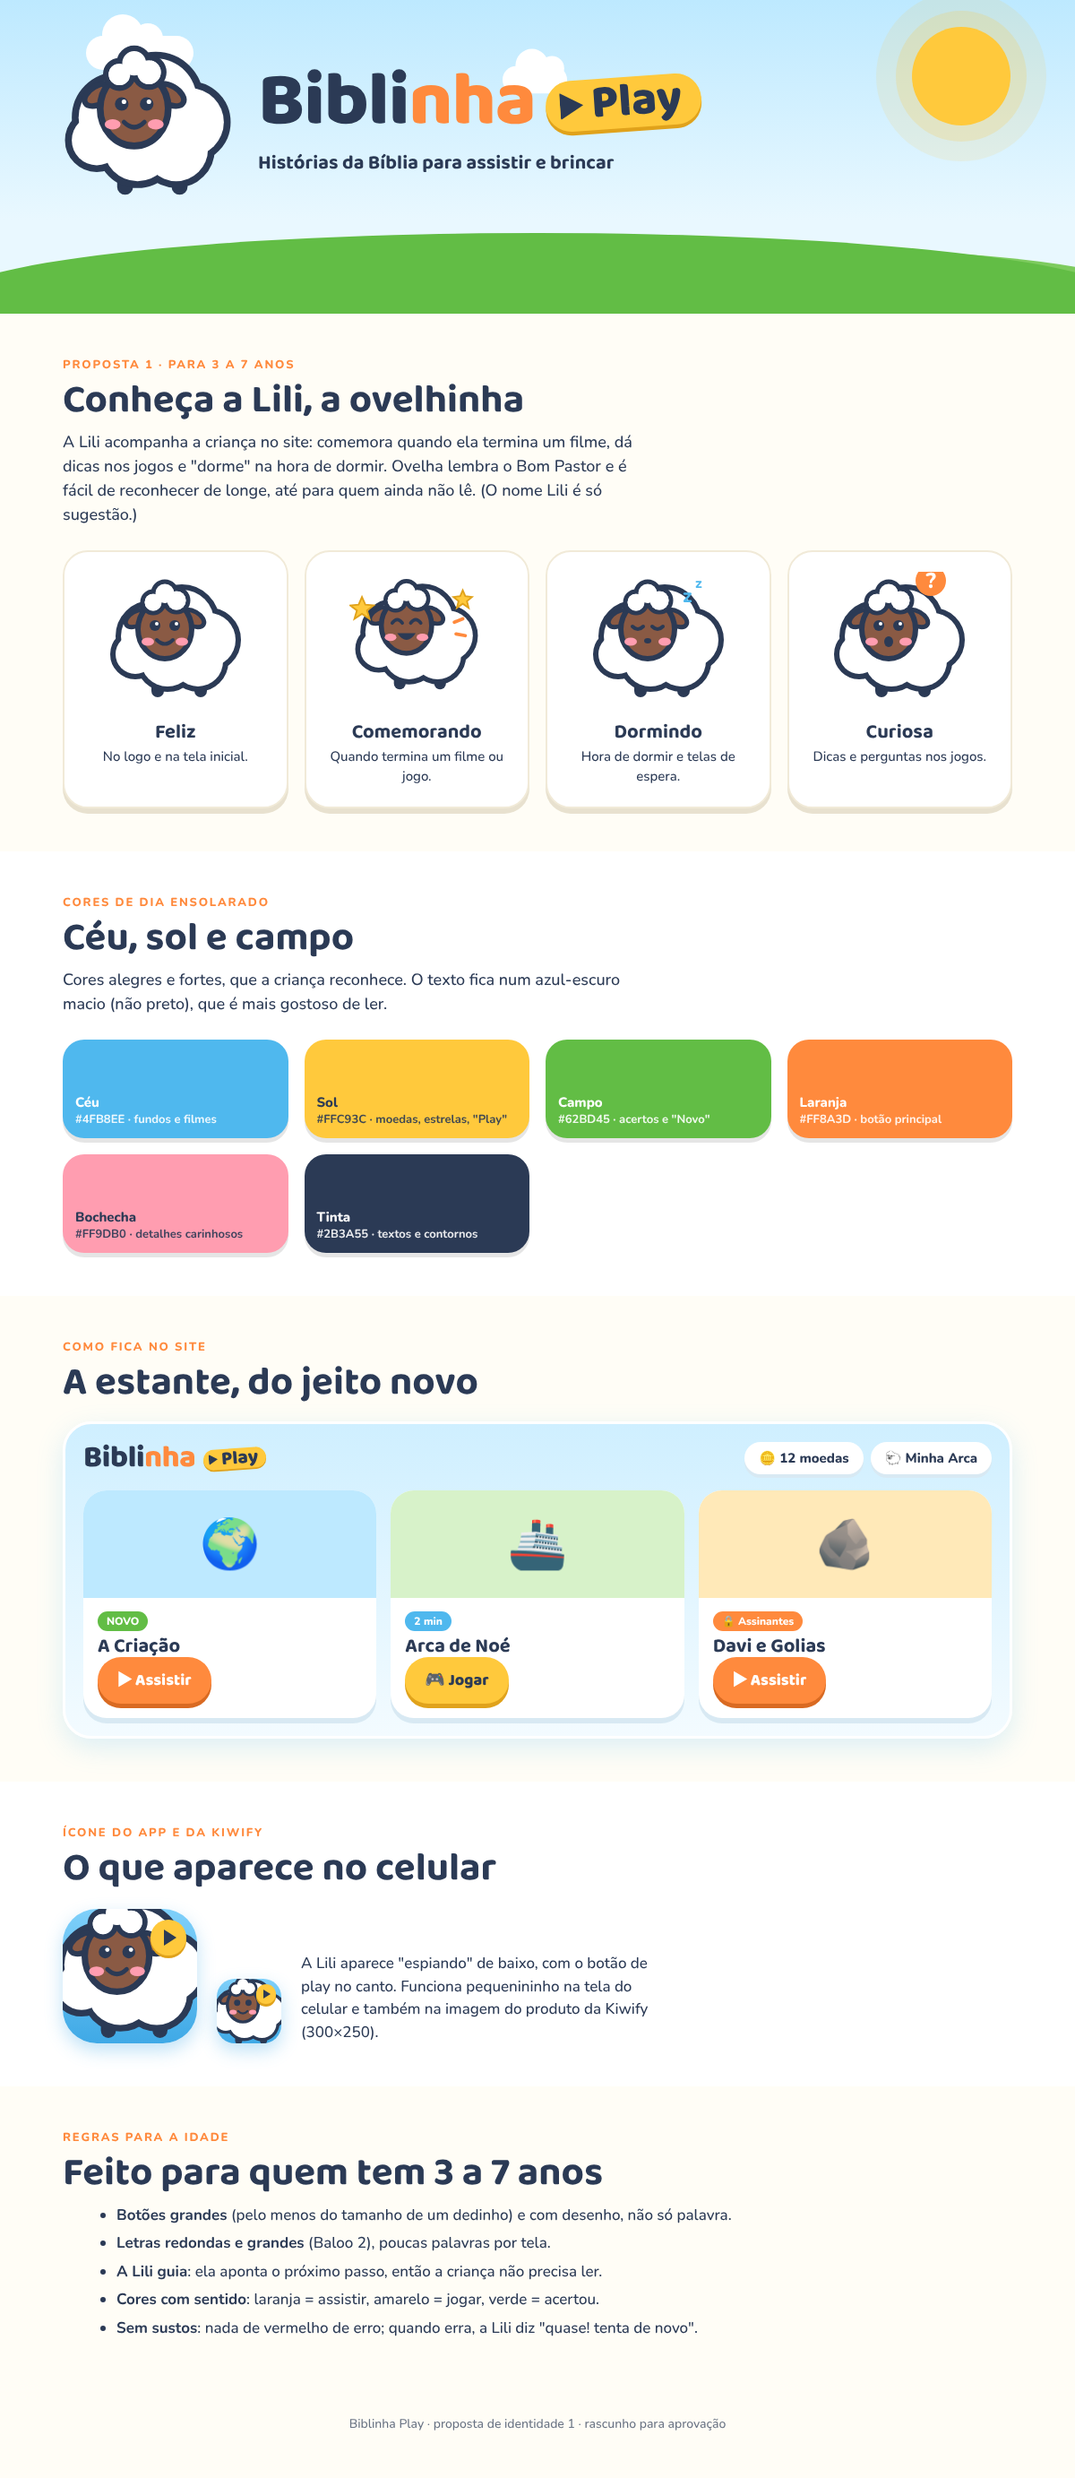
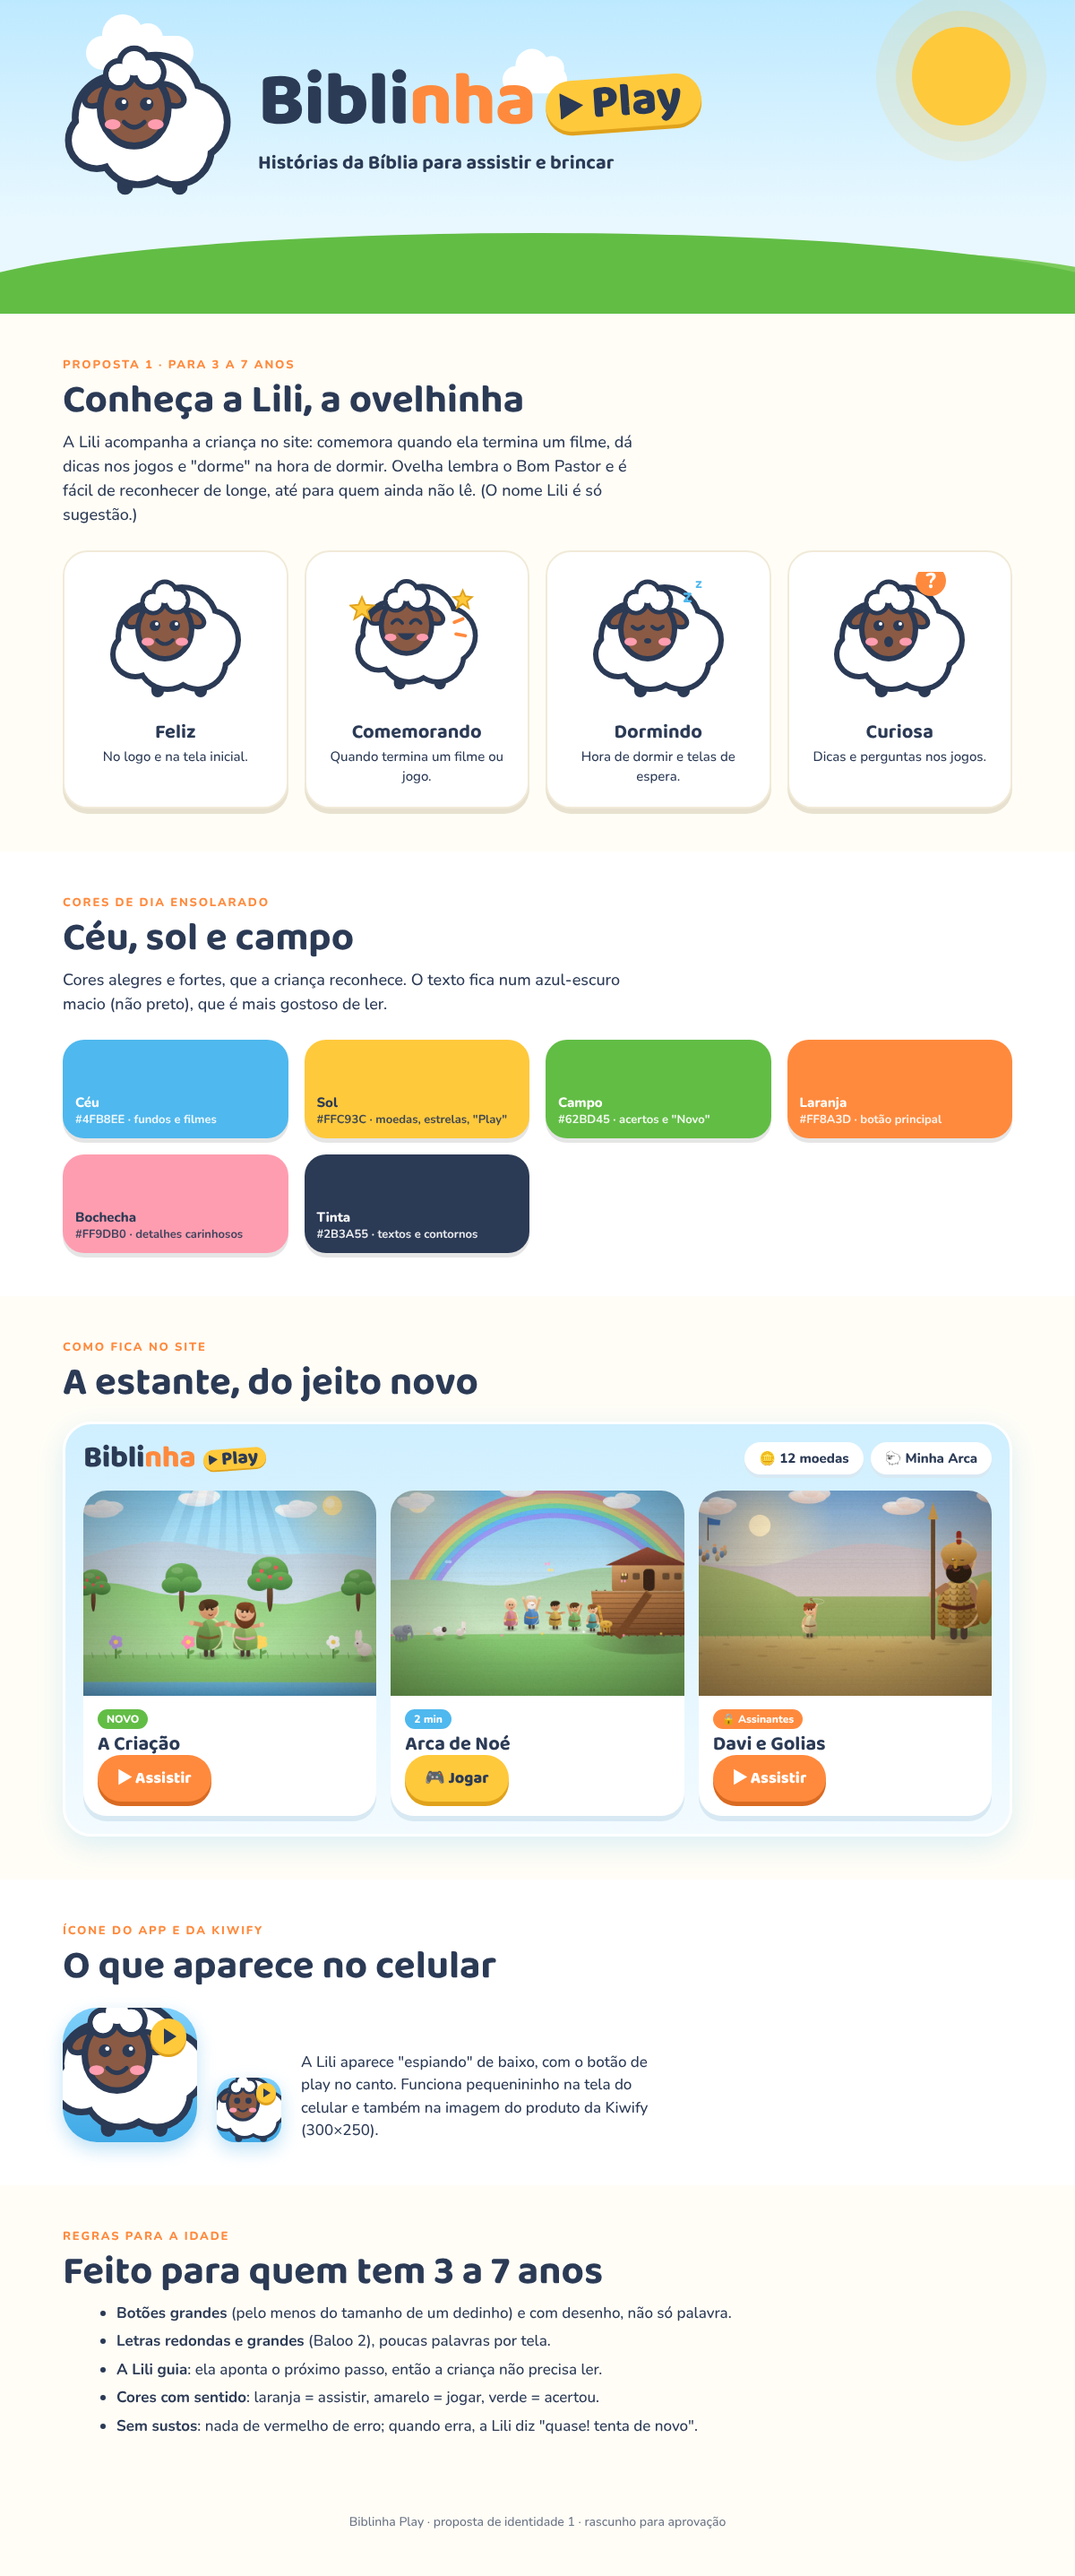
Identidade Biblinha Play: proposta 2 (estilo livro de histórias) e comparação
Claude-Session: https://claude.ai/code/session_01JxGye28bFzUYJqfGC51MLp

diff --git a/prototipos/identidade/biblinha-proposta-2.html b/prototipos/identidade/biblinha-proposta-2.html
@@ -1,0 +1,177 @@
+<!doctype html>
+<html lang="pt-BR">
+<head>
+<meta charset="utf-8">
+<meta name="viewport" content="width=device-width,initial-scale=1">
+<title>Biblinha Play – proposta 2</title>
+<link rel="preconnect" href="https://fonts.googleapis.com">
+<link href="https://fonts.googleapis.com/css2?family=Fredoka:wght@500;600;700&family=Nunito:wght@500;700;800&display=swap" rel="stylesheet">
+<style>
+:root{
+  --manha:#8FD3F4; --pessego:#FFB38A; --menta:#8FD8A8; --lavanda:#B9A6F0; --mel:#F6C453;
+  --tinta:#3B3355; --papel:#FFF8EE; --cartao:#FFFFFF;
+}
+*{box-sizing:border-box;margin:0}
+body{background:var(--papel);color:var(--tinta);font:500 17px/1.55 Nunito,system-ui,sans-serif}
+h1,h2,h3{font-family:Fredoka,Nunito,sans-serif;font-weight:600;line-height:1.1}
+.wrap{max-width:1100px;margin:auto;padding:0 20px}
+section{padding:48px 0}
+.rot{font:800 13px Nunito;letter-spacing:.14em;text-transform:uppercase;color:#C47B55;margin-bottom:8px}
+h2{font-size:clamp(30px,5vw,42px);margin-bottom:10px}
+p.lead{max-width:640px;font-size:18px}
+
+/* logo */
+.logo{display:inline-flex;align-items:center;gap:.25em;font-family:Fredoka;font-weight:700;font-size:var(--t,60px);line-height:1}
+.logo .arco{width:1.7em;height:1.7em;flex:none}
+.logo .txt{display:flex;flex-direction:column;line-height:.9}
+.logo .b{color:var(--tinta);letter-spacing:-.01em}
+.logo .p{font-size:.56em;letter-spacing:.06em;background:linear-gradient(90deg,#FF8E7A,#F6B54B 30%,#62C38A 55%,#5FB2E6 75%,#9A84E8);-webkit-background-clip:text;background-clip:text;color:transparent;padding-left:.06em}
+.logo.claro .b{color:#fff}
+
+/* topo com a arte do jogo */
+.hero{position:relative;min-height:440px;display:flex;align-items:flex-end;overflow:hidden;background:#cfe9f7}
+.hero img{position:absolute;inset:0;width:100%;height:100%;object-fit:cover}
+.hero::after{content:"";position:absolute;inset:0;background:linear-gradient(180deg,#fff8ee00 35%,#fff8eeee 92%)}
+.hero .wrap{position:relative;z-index:2;width:100%;padding-bottom:28px;display:flex;align-items:flex-end;gap:18px;flex-wrap:wrap}
+.hero .tag{font:600 22px Fredoka;margin-top:8px}
+.btn{display:inline-flex;align-items:center;gap:8px;border:0;border-radius:999px;padding:12px 24px;font:600 19px Fredoka;cursor:pointer}
+.btn.play{background:linear-gradient(#FFC09C,#FF9A6B);color:#fff;box-shadow:0 6px 16px #FF9A6B66;text-shadow:0 1px 0 #d9733f}
+.btn.alt{background:#fff;color:var(--tinta);box-shadow:0 6px 16px #3B335522}
+
+.grid{display:grid;gap:18px;grid-template-columns:repeat(auto-fit,minmax(220px,1fr));margin-top:26px}
+.card{background:var(--cartao);border-radius:30px;padding:22px;box-shadow:0 10px 30px #3B335514;text-align:center}
+.card h3{font-size:22px;margin:8px 0 4px}.card p{font-size:15px}
+.pose svg{width:170px;height:170px}
+
+.cores .sw{border-radius:26px;height:110px;display:flex;align-items:flex-end;padding:12px 14px;font:800 15px Nunito;color:var(--tinta);box-shadow:0 8px 20px #3B335512}
+.cores .sw span{display:block;font-weight:600;font-size:13px;opacity:.85}
+
+.estante{display:grid;grid-template-columns:repeat(auto-fit,minmax(230px,1fr));gap:18px;margin-top:22px}
+.filme{background:#fff;border-radius:28px;overflow:hidden;box-shadow:0 10px 28px #3B335518}
+.filme img{display:block;width:100%;aspect-ratio:10/7;object-fit:cover}
+.filme .info{padding:12px 16px 16px;display:flex;justify-content:space-between;align-items:center;gap:8px}
+.filme h3{font-size:21px}
+.filme small{display:block;font-size:13px;opacity:.7}
+.mini{width:46px;height:46px;border-radius:50%;border:0;background:linear-gradient(#FFC09C,#FF9A6B);display:flex;align-items:center;justify-content:center;box-shadow:0 4px 12px #FF9A6B66;flex:none}
+.mini i{border-left:14px solid #fff;border-top:9px solid transparent;border-bottom:9px solid transparent;margin-left:4px}
+.selo{position:absolute;left:12px;top:12px;background:#fffffff0;border-radius:999px;padding:4px 12px;font:800 12px Nunito}
+.filme .capa{position:relative}
+
+.icones{display:flex;gap:22px;flex-wrap:wrap;align-items:center;margin-top:22px}
+.icone{width:150px;height:150px;border-radius:40px;background:radial-gradient(circle at 50% 120%,#FFE9C9,#BFE6F8 70%);position:relative;overflow:hidden;box-shadow:0 10px 24px #5FB2E655}
+.icone svg{position:absolute;inset:0;width:100%;height:100%}
+.peq{width:72px;height:72px;border-radius:20px}
+.regras li{margin:6px 0 6px 20px}
+footer{padding:30px 0 50px;text-align:center;font-size:14px;opacity:.7}
+</style>
+</head>
+<body>
+
+<svg width="0" height="0" style="position:absolute">
+  <defs>
+    <radialGradient id="gLa" cx="40%" cy="30%" r="75%"><stop offset="0" stop-color="#FFFFFF"/><stop offset=".7" stop-color="#FBF3E6"/><stop offset="1" stop-color="#E9DCC8"/></radialGradient>
+    <radialGradient id="gRosto" cx="45%" cy="35%" r="70%"><stop offset="0" stop-color="#F7DCC6"/><stop offset="1" stop-color="#DDB08F"/></radialGradient>
+    <linearGradient id="gArco" x1="0" x2="1"><stop offset="0" stop-color="#FF8E7A"/><stop offset=".3" stop-color="#F6B54B"/><stop offset=".55" stop-color="#62C38A"/><stop offset=".78" stop-color="#5FB2E6"/><stop offset="1" stop-color="#9A84E8"/></linearGradient>
+    <filter id="sombra" x="-20%" y="-20%" width="140%" height="150%"><feDropShadow dx="0" dy="4" stdDeviation="4" flood-color="#3B3355" flood-opacity=".18"/></filter>
+    <g id="ov">
+      <ellipse cx="100" cy="178" rx="52" ry="7" fill="#3B3355" opacity=".12"/>
+      <rect x="76" y="140" width="13" height="36" rx="6.5" fill="#6B5A57"/>
+      <rect x="114" y="140" width="13" height="36" rx="6.5" fill="#6B5A57"/>
+      <g fill="url(#gLa)" filter="url(#sombra)" >
+        <circle cx="72" cy="112" r="30"/><circle cx="104" cy="98" r="34"/><circle cx="136" cy="112" r="30"/>
+        <circle cx="88" cy="136" r="28"/><circle cx="122" cy="136" r="28"/><circle cx="104" cy="122" r="34"/>
+      </g>
+      <ellipse cx="66" cy="96" rx="15" ry="8" transform="rotate(-25 66 96)" fill="#E2B897"/>
+      <ellipse cx="128" cy="96" rx="15" ry="8" transform="rotate(25 128 96)" fill="#E2B897"/>
+      <ellipse cx="97" cy="106" rx="29" ry="31" fill="url(#gRosto)"/>
+      <g fill="#fff"><circle cx="84" cy="78" r="11"/><circle cx="97" cy="71" r="12"/><circle cx="110" cy="78" r="11"/></g>
+      <ellipse cx="80" cy="117" rx="6" ry="3.6" fill="#F59C9C" opacity=".7"/><ellipse cx="114" cy="117" rx="6" ry="3.6" fill="#F59C9C" opacity=".7"/>
+    </g>
+    <g id="olhos"><circle cx="87" cy="103" r="4.2" fill="#3B3355"/><circle cx="107" cy="103" r="4.2" fill="#3B3355"/><circle cx="88.3" cy="101.7" r="1.4" fill="#fff"/><circle cx="108.3" cy="101.7" r="1.4" fill="#fff"/></g>
+    <path id="sorriso" d="M90 116 q7 6 14 0" fill="none" stroke="#3B3355" stroke-width="3" stroke-linecap="round"/>
+  </defs>
+</svg>
+
+<header class="hero">
+  <img src="../../filmes/capa-noe.jpg" alt="Cena do filme Arca de Noé">
+  <div class="wrap">
+    <div style="background:#fff8eee6;border-radius:30px;padding:14px 22px 16px;box-shadow:0 10px 30px #3B335522">
+      <div class="logo" style="--t:clamp(44px,8vw,76px)">
+        <svg class="arco" viewBox="0 0 100 100"><path d="M8 74 a42 42 0 0 1 84 0" fill="none" stroke="url(#gArco)" stroke-width="10" stroke-linecap="round"/><g transform="translate(-14 -2) scale(.6)"><use href="#ov"/><use href="#olhos"/><use href="#sorriso"/></g></svg>
+        <span class="txt"><span class="b">Biblinha</span><span class="p">PLAY</span></span>
+      </div>
+      <div class="tag">Histórias da Bíblia para assistir e brincar</div>
+    </div>
+    <div style="margin-left:auto;display:flex;gap:10px;flex-wrap:wrap"><button class="btn play">▶ Assistir</button><button class="btn alt">🎮 Jogar</button></div>
+  </div>
+</header>
+
+<section><div class="wrap">
+  <div class="rot">Proposta 2 · estilo livro de histórias</div>
+  <h2>A Lili, desenhada como nos filmes</h2>
+  <p class="lead">Aqui a ovelhinha segue o mesmo jeito dos desenhos que já temos: sem contorno preto, luz suave e cores de aquarela. Assim ela parece ter saído de dentro dos filmes.</p>
+  <div class="grid">
+    <div class="card pose"><svg viewBox="34 52 136 132"><use href="#ov"/><use href="#olhos"/><use href="#sorriso"/></svg><h3>Feliz</h3><p>No logo e na tela inicial.</p></div>
+    <div class="card pose"><svg viewBox="30 38 145 146"><g transform="translate(0,-8)"><use href="#ov"/>
+      <path d="M82 104 q5 -6 10 0 M102 104 q5 -6 10 0" fill="none" stroke="#3B3355" stroke-width="3" stroke-linecap="round"/><path d="M89 114 q8 12 16 0 z" fill="#3B3355"/></g>
+      <path d="M150 70 a40 40 0 0 0 -80 -12" fill="none" stroke="url(#gArco)" stroke-width="6" stroke-linecap="round" opacity=".9"/>
+      <g fill="#F6C453"><circle cx="48" cy="70" r="5"/><circle cx="160" cy="92" r="4"/><circle cx="58" cy="52" r="3"/></g></svg><h3>Comemorando</h3><p>Quando termina um filme ou jogo.</p></div>
+    <div class="card pose"><svg viewBox="34 52 136 132"><use href="#ov"/>
+      <path d="M82 104 q5 4 10 0 M102 104 q5 4 10 0" fill="none" stroke="#3B3355" stroke-width="3" stroke-linecap="round"/>
+      <path d="M150 62 a14 14 0 1 0 12 20 a11 11 0 1 1 -12 -20z" fill="#F6C453"/></svg><h3>Dormindo</h3><p>Hora de dormir e telas de espera.</p></div>
+    <div class="card pose"><svg viewBox="34 52 136 132"><use href="#ov"/><use href="#olhos"/><ellipse cx="97" cy="116" rx="4" ry="5" fill="#3B3355"/>
+      <g transform="translate(150 70)"><circle r="16" fill="#B9A6F0"/><text y="7" text-anchor="middle" font-family="Fredoka" font-weight="700" font-size="22" fill="#fff">?</text></g></svg><h3>Curiosa</h3><p>Dicas e perguntas nos jogos.</p></div>
+  </div>
+</div></section>
+
+<section style="background:#fff"><div class="wrap">
+  <div class="rot">Cores de arco-íris suave</div>
+  <h2>As cores da aliança</h2>
+  <p class="lead">Tons de aquarela que combinam com as capas dos filmes. O arco-íris lembra a promessa de Deus a Noé e aparece no logo.</p>
+  <div class="grid cores">
+    <div class="sw" style="background:var(--manha)"><div>Manhã<span>#8FD3F4 · céu e fundos</span></div></div>
+    <div class="sw" style="background:var(--pessego)"><div>Pêssego<span>#FFB38A · botão assistir</span></div></div>
+    <div class="sw" style="background:var(--menta)"><div>Menta<span>#8FD8A8 · acertos e "Novo"</span></div></div>
+    <div class="sw" style="background:var(--mel)"><div>Mel<span>#F6C453 · moedas e estrelas</span></div></div>
+    <div class="sw" style="background:var(--lavanda)"><div>Lavanda<span>#B9A6F0 · dicas e área dos pais</span></div></div>
+    <div class="sw" style="background:var(--tinta);color:#fff"><div>Tinta<span>#3B3355 · textos</span></div></div>
+  </div>
+</div></section>
+
+<section><div class="wrap">
+  <div class="rot">Como fica no site · com os desenhos de verdade</div>
+  <h2>A estante</h2>
+  <div class="estante">
+    <div class="filme"><div class="capa"><img src="../../filmes/capa-criacao.jpg" alt=""><span class="selo">✨ Novo</span></div><div class="info"><div><h3>A Criação</h3><small>2 min · com jogo</small></div><button class="mini" aria-label="Assistir"><i></i></button></div></div>
+    <div class="filme"><div class="capa"><img src="../../filmes/capa-noe.jpg" alt=""><span class="selo">🌈 Favorito</span></div><div class="info"><div><h3>Arca de Noé</h3><small>2 min · com jogo</small></div><button class="mini" aria-label="Assistir"><i></i></button></div></div>
+    <div class="filme"><div class="capa"><img src="../../filmes/capa-davi.jpg" alt=""><span class="selo">🔒 Assinantes</span></div><div class="info"><div><h3>Davi e Golias</h3><small>3 min · com jogo</small></div><button class="mini" aria-label="Assistir"><i></i></button></div></div>
+    <div class="filme"><div class="capa"><img src="../../filmes/capa-jonas.jpg" alt=""><span class="selo">🔒 Assinantes</span></div><div class="info"><div><h3>Jonas</h3><small>3 min · com jogo</small></div><button class="mini" aria-label="Assistir"><i></i></button></div></div>
+    <div class="filme"><div class="capa"><img src="../../filmes/capa-natal.jpg" alt=""><span class="selo">🔒 Assinantes</span></div><div class="info"><div><h3>O Natal</h3><small>3 min · com jogo</small></div><button class="mini" aria-label="Assistir"><i></i></button></div></div>
+    <div class="filme"><div class="capa"><img src="../../filmes/capa-tempestade.jpg" alt=""><span class="selo">🔒 Assinantes</span></div><div class="info"><div><h3>A Tempestade</h3><small>3 min · com jogo</small></div><button class="mini" aria-label="Assistir"><i></i></button></div></div>
+  </div>
+</div></section>
+
+<section style="background:#fff"><div class="wrap">
+  <div class="rot">Ícone do app e da Kiwify</div>
+  <h2>O que aparece no celular</h2>
+  <div class="icones">
+    <div class="icone"><svg viewBox="0 0 150 150"><path d="M22 112 a53 53 0 0 1 106 0" fill="none" stroke="url(#gArco)" stroke-width="14" stroke-linecap="round"/><g transform="translate(-14 2) scale(.86)"><use href="#ov"/><use href="#olhos"/><use href="#sorriso"/></g></svg></div>
+    <div class="icone peq"><svg viewBox="0 0 150 150"><path d="M22 112 a53 53 0 0 1 106 0" fill="none" stroke="url(#gArco)" stroke-width="14" stroke-linecap="round"/><g transform="translate(-14 2) scale(.86)"><use href="#ov"/><use href="#olhos"/><use href="#sorriso"/></g></svg></div>
+    <div style="max-width:420px"><p>A Lili debaixo do arco-íris. Fica delicado e se destaca na tela do celular, ao lado dos outros apps.</p></div>
+  </div>
+</div></section>
+
+<section><div class="wrap regras">
+  <div class="rot">Regras para a idade</div>
+  <h2>Feito para quem tem 3 a 7 anos</h2>
+  <ul>
+    <li><b>Os desenhos mandam</b>: as capas dos filmes são grandes e a criança escolhe pela imagem.</li>
+    <li><b>Letras redondas</b> (Fredoka) e poucas palavras.</li>
+    <li><b>Um só botão por filme</b> (o círculo de play), fácil de acertar com o dedo.</li>
+    <li><b>Clima calmo</b>: cores suaves, sem piscar, bom também para a hora de dormir.</li>
+  </ul>
+</div></section>
+
+<footer>Biblinha Play · proposta de identidade 2 · rascunho para aprovação</footer>
+</body>
+</html>

diff --git a/prototipos/identidade/biblinha-proposta-1.html b/prototipos/identidade/biblinha-proposta-1.html
@@ -57,7 +57,7 @@ p.lead{max-width:640px;font-size:18px}
 .chip{background:#fff;border-radius:999px;padding:8px 16px;font:800 15px Nunito;box-shadow:0 4px 0 #D8E9F3}
 .filmes{display:grid;grid-template-columns:repeat(auto-fit,minmax(200px,1fr));gap:16px;margin-top:18px}
 .filme{background:#fff;border-radius:26px;overflow:hidden;box-shadow:0 6px 0 #D8E9F3}
-.filme .capa{height:120px;display:flex;align-items:center;justify-content:center;font-size:54px}
+.filme .capa img{display:block;width:100%;aspect-ratio:10/7;object-fit:cover}
 .filme .info{padding:12px 16px 16px}
 .filme h3{font-size:22px}
 .btn{display:inline-flex;align-items:center;gap:8px;border:0;border-radius:999px;padding:12px 22px;font:800 18px "Baloo 2";cursor:pointer}
@@ -183,9 +183,9 @@ footer{padding:30px 0 50px;text-align:center;font-size:14px;opacity:.7}
       <div style="display:flex;gap:8px;flex-wrap:wrap"><span class="chip">🪙 12 moedas</span><span class="chip">🐑 Minha Arca</span></div>
     </div>
     <div class="filmes">
-      <div class="filme"><div class="capa" style="background:#BDE9FF">🌍</div><div class="info"><span class="selo">NOVO</span><h3>A Criação</h3><button class="btn play">▶ Assistir</button></div></div>
-      <div class="filme"><div class="capa" style="background:#D7F2C9">🚢</div><div class="info"><span class="selo" style="background:var(--ceu)">2 min</span><h3>Arca de Noé</h3><button class="btn alt">🎮 Jogar</button></div></div>
-      <div class="filme"><div class="capa" style="background:#FFE9B8">🪨</div><div class="info"><span class="selo" style="background:var(--laranja)">🔒 Assinantes</span><h3>Davi e Golias</h3><button class="btn play">▶ Assistir</button></div></div>
+      <div class="filme"><div class="capa"><img src="../../filmes/capa-criacao.jpg" alt=""></div><div class="info"><span class="selo">NOVO</span><h3>A Criação</h3><button class="btn play">▶ Assistir</button></div></div>
+      <div class="filme"><div class="capa"><img src="../../filmes/capa-noe.jpg" alt=""></div><div class="info"><span class="selo" style="background:var(--ceu)">2 min</span><h3>Arca de Noé</h3><button class="btn alt">🎮 Jogar</button></div></div>
+      <div class="filme"><div class="capa"><img src="../../filmes/capa-davi.jpg" alt=""></div><div class="info"><span class="selo" style="background:var(--laranja)">🔒 Assinantes</span><h3>Davi e Golias</h3><button class="btn play">▶ Assistir</button></div></div>
     </div>
   </div>
 </div></section>
